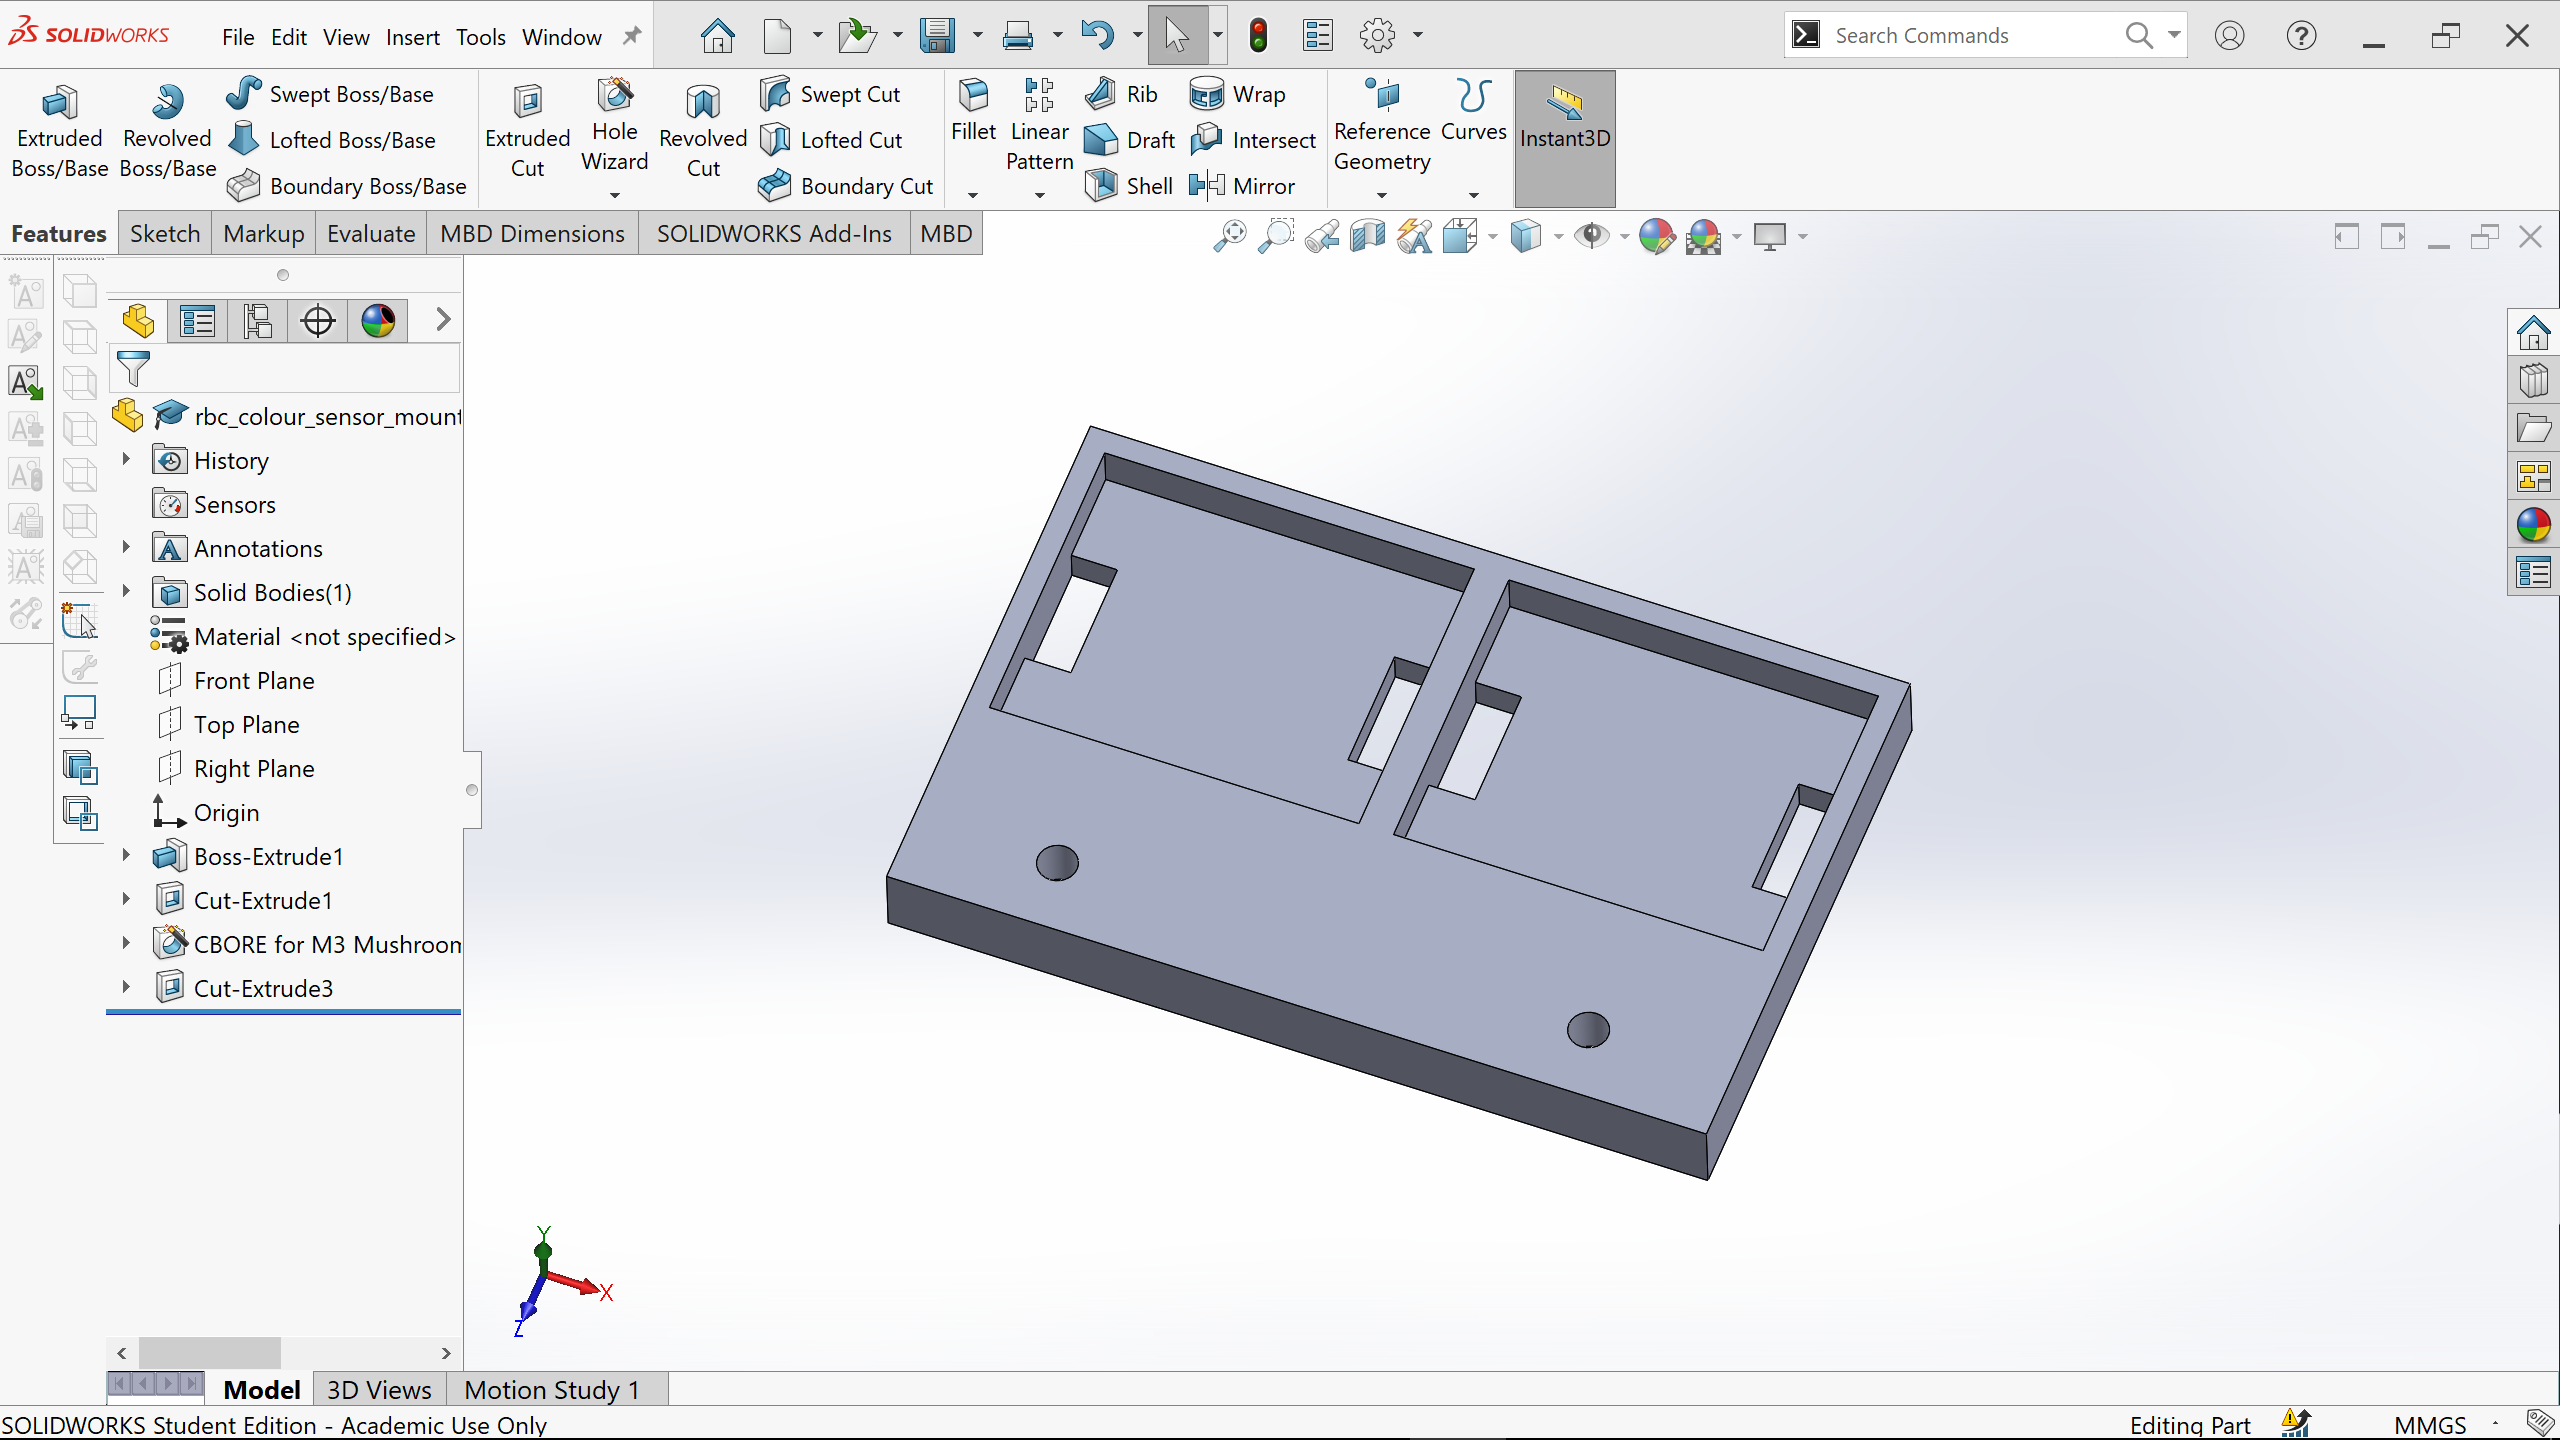
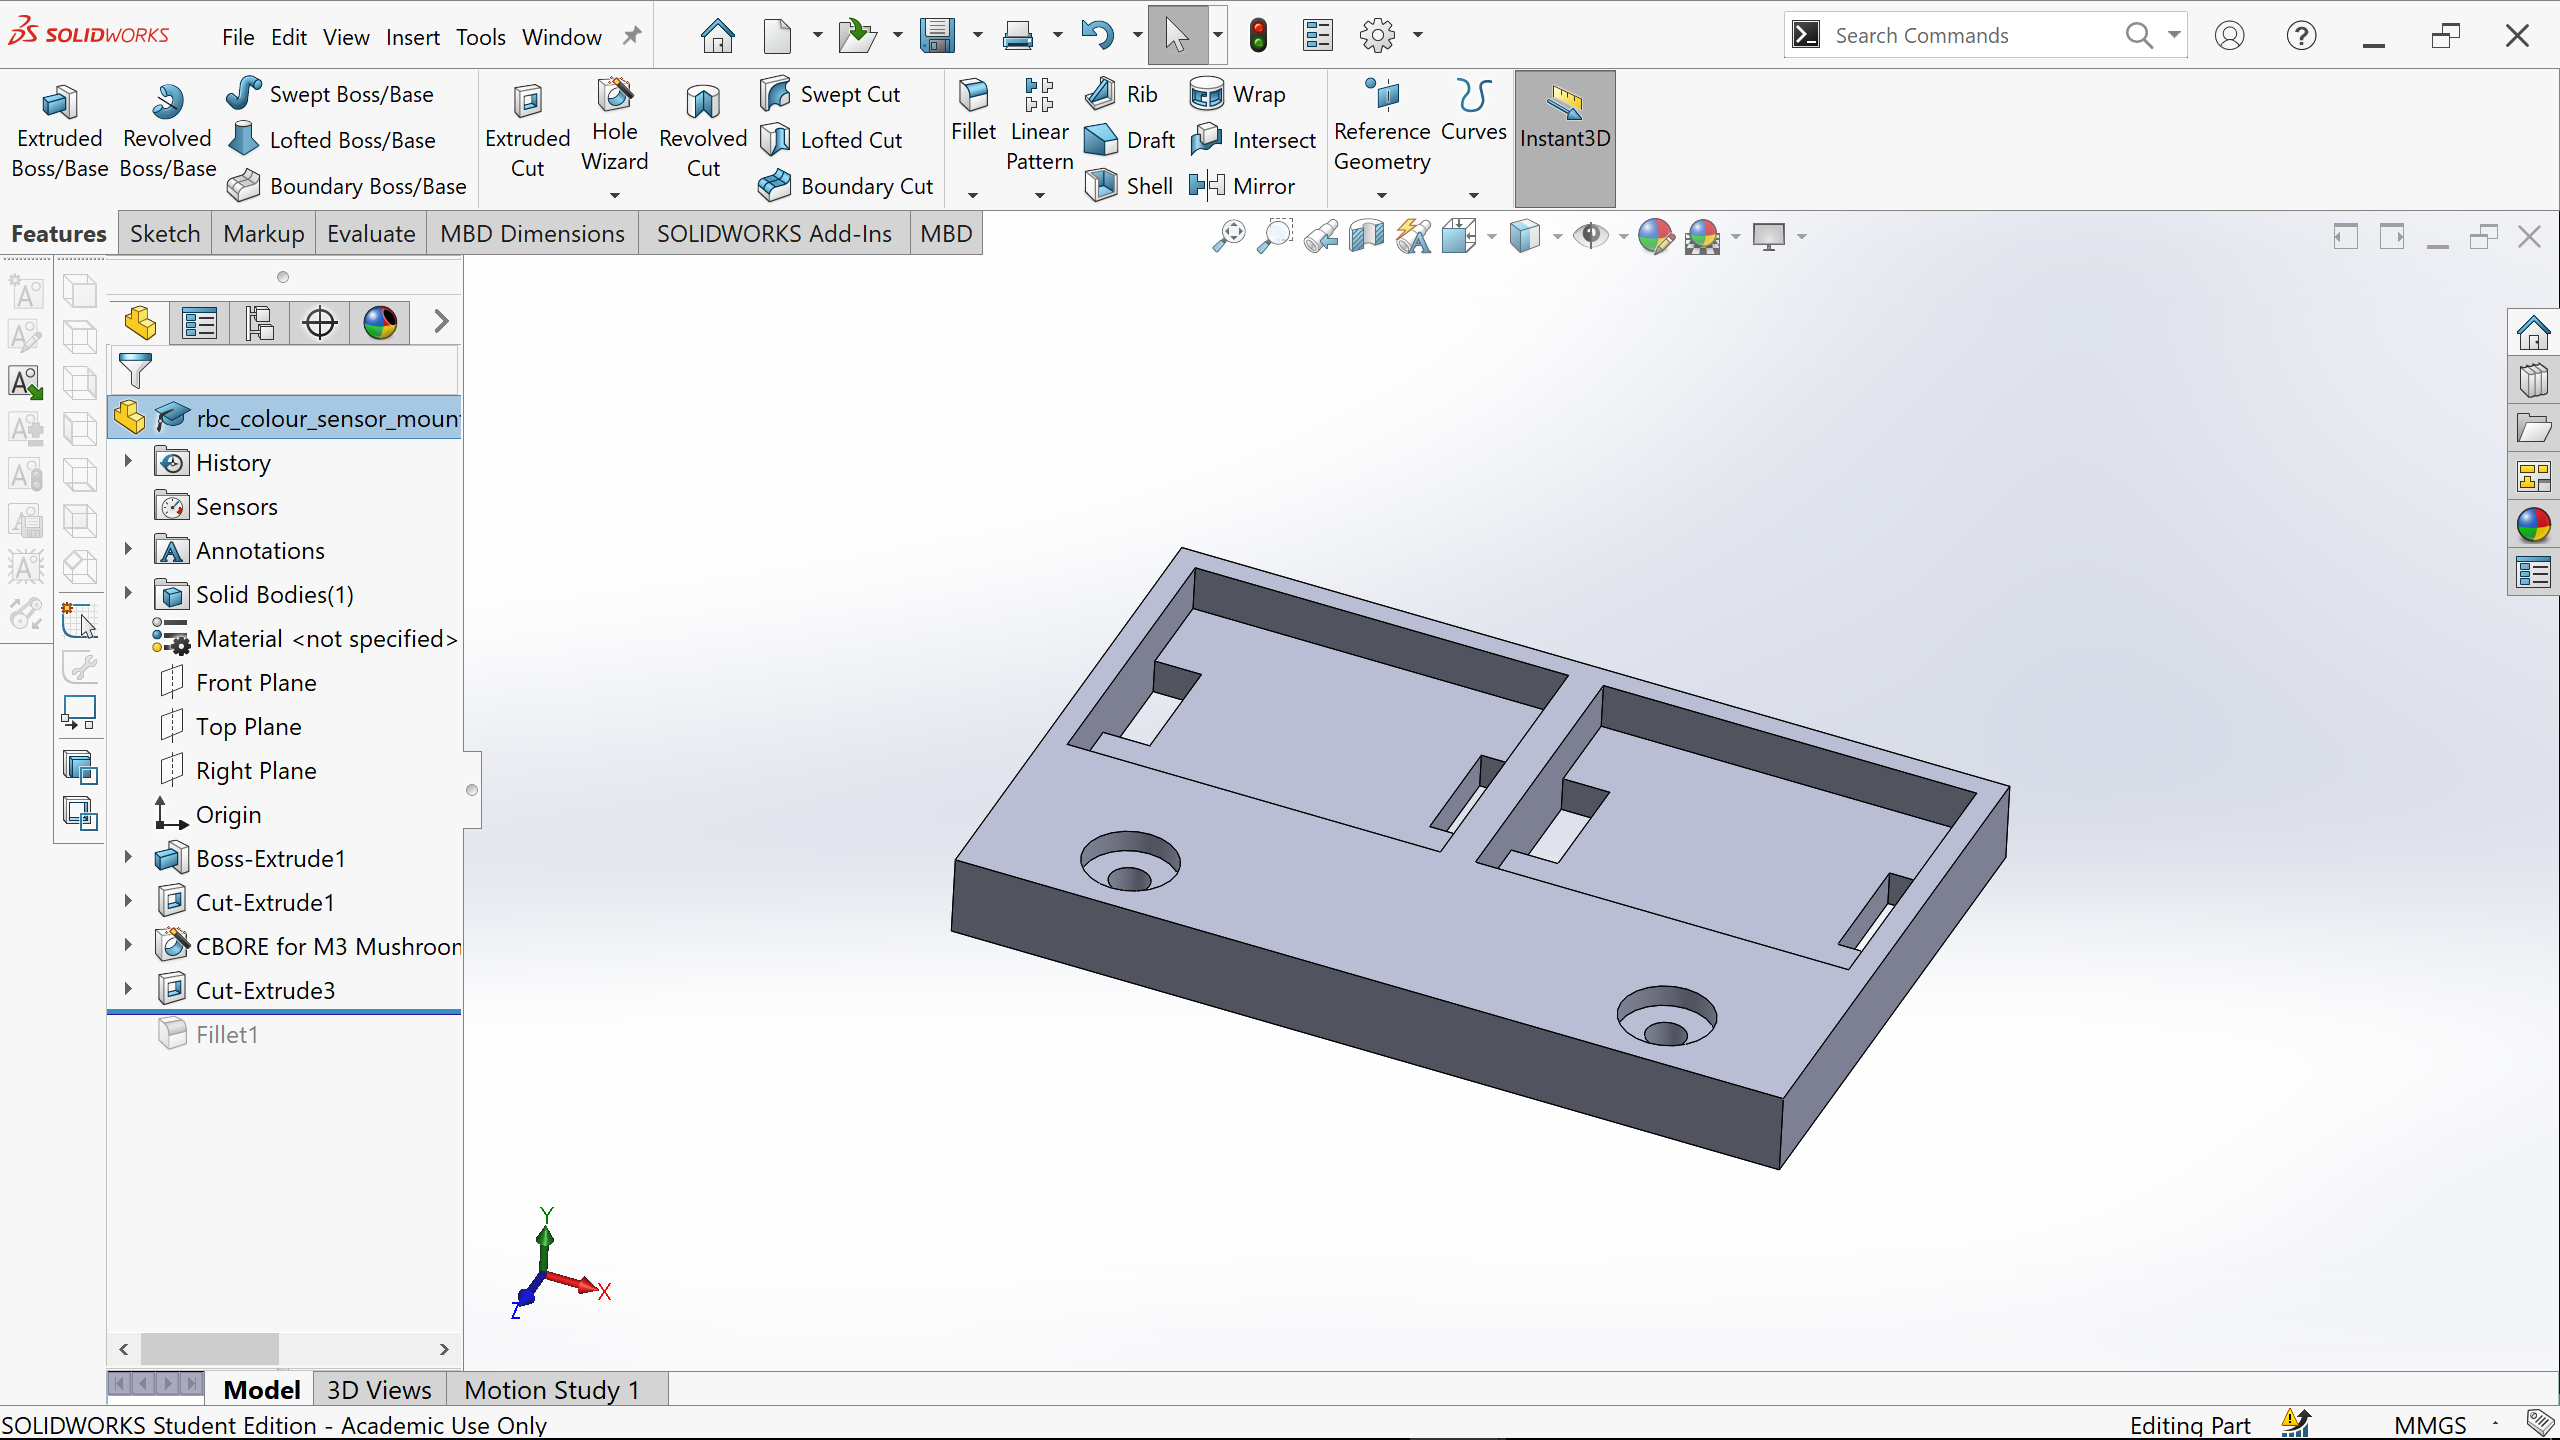
Fix hole location and add robot picture

diff --git a/solidworks_tutorial.md b/solidworks_tutorial.md
@@ -1,8 +1,10 @@
 # Tutorial 1 - CAD (3D Modelling)
 
-<p align="center">
-	<img src="https://user-images.githubusercontent.com/7232997/126315130-3b86152c-85ef-4d06-b10f-1907389f9dc2.PNG" width="50%" style="align:centre">
-</p>
+<img src="https://user-images.githubusercontent.com/7232997/126315130-3b86152c-85ef-4d06-b10f-1907389f9dc2.PNG" width="50%" style="align:centre">
+
+![](images/cad/robot.PNG)
+<!-- <p align="center"> -->
+<!-- </p> -->
 
 ## Introduction
 In this tutorial, you will be introduced to Solidworks, a CAD program used to create 3D models.
@@ -115,7 +117,7 @@ This step takes the 2D sketch and creates a 3D part by stretching it.
 We will use the Hole Wizard tool to create standard size screw holes. We could use our own sketch to create holes for screws, and dimension them ourselves...but
 it’s just much cooler (and perhaps easier, faster, and simpler) this way.
 
-- Make sure the bottom face is selected. (The one without the cuts)
+- Make sure the top face is selected. (The one with the cuts)
 - In the Features tab, click on the Hole Wizard tool.
 - Choose Standard: AS, Type: Mushroom Head Screw.
 - Make sure Hole Type is Counterbore
@@ -125,7 +127,6 @@ it’s just much cooler (and perhaps easier, faster, and simpler) this way.
 
 - Click onto the Positions tab in the Property Manager.
 - Click on the part to place two holes near the bottom.
-![](images/cad/22_holesplaced.PNG)
 - Create a centreline and dimension the holes as below
 ![](images/cad/23_holesdim.PNG)
 
